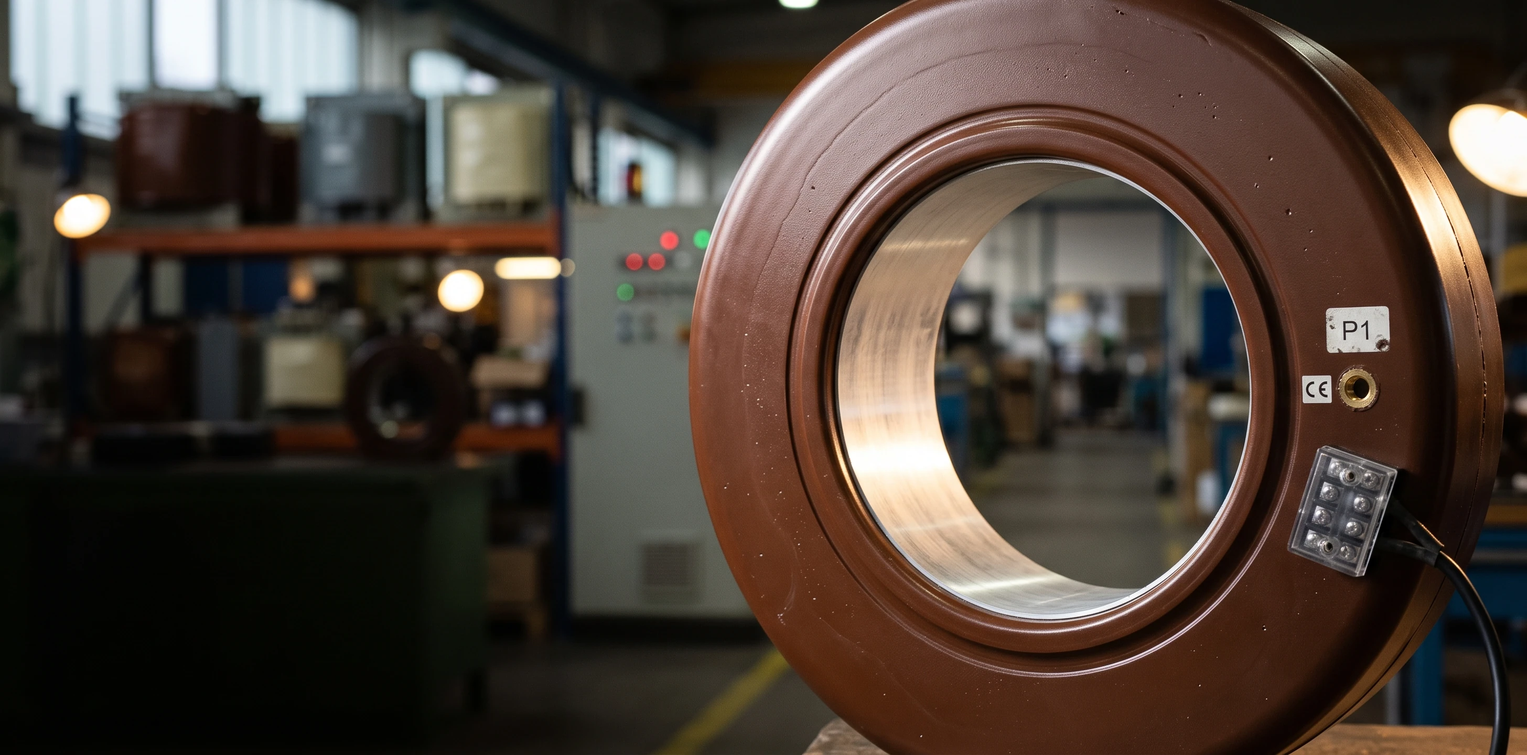
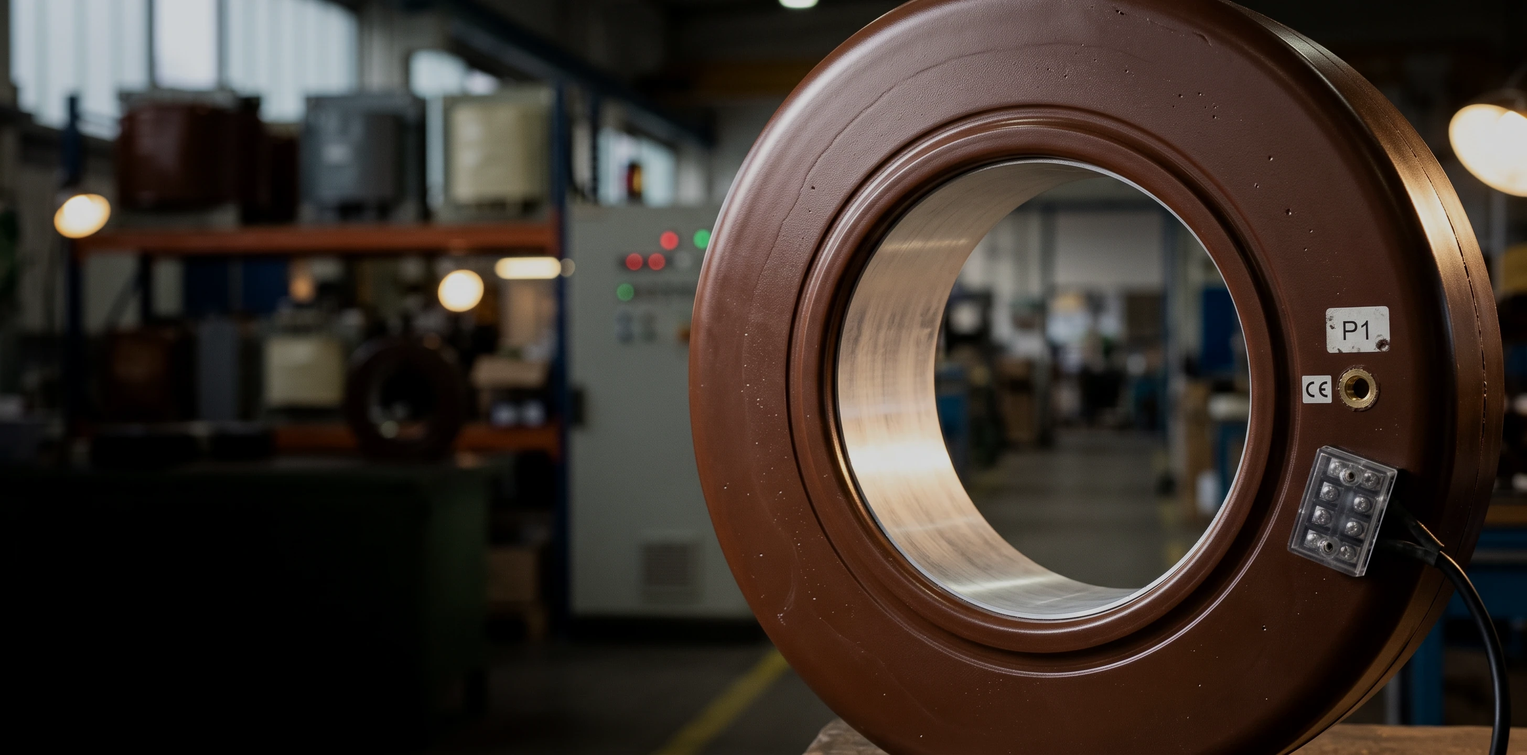
Startbühne: Animation im Compositor, Handy wieder mit Ring im Hintergrund
Messwerk in kleine Ebenen geteilt (Leuchten, Ring, Skala, drehende Bögen,
Führungslinien, Punkte), Messkurven und Röntgen-Freigabe nur noch über transform,
Wiederholungsscan auf eigener Ebene; Farbabstimmung ins Foto eingerechnet
(ungefiltert in raw/img/mimg/_quellen). Prüfskript tools/qa/perf-hero.mjs.

Claude-Session: https://claude.ai/code/session_011KqBX1eqUtzup1XKCHN7Kb

diff --git a/site/src/styles/home.css b/site/src/styles/home.css
@@ -105,10 +105,11 @@
 /* ---------- Bühne ---------- */
 .is-home .st { margin-top: calc(-1 * var(--header-h)); }
 .st { position: relative; isolation: isolate; display: grid; grid-template-rows: 1fr auto; min-height: clamp(560px, calc(90svh - var(--abar-h, 0px)), 880px); padding-top: var(--header-h); background: var(--night); color: var(--on-night); overflow: hidden; }
-.st__media { position: absolute; inset: 0; z-index: -2; overflow: hidden; }
+.st__media { position: absolute; inset: 0; z-index: -2; overflow: hidden; contain: layout paint; }
 /* Fläche im Seitenverhältnis des Fotos, wie ein Titelbild beschnitten; Fokus auf dem Ring */
 .st__frame { --fx: 50%; position: absolute; top: 50%; left: 50%; height: max(100%, calc(100vw * var(--st-h) / var(--st-w))); aspect-ratio: var(--st-ar); transform: translate(calc(-1 * var(--fx)), -50%); }
-.st__photo { position: absolute; inset: 0; width: 100%; height: 100%; object-fit: cover; filter: saturate(.92) contrast(1.05) brightness(.82); }
+/* Farbabstimmung (Sättigung .92, Kontrast 1.05, Helligkeit .82) ist ins Bild eingerechnet: kein Filter pro Bild */
+.st__photo { position: absolute; inset: 0; width: 100%; height: 100%; object-fit: cover; }
 .st::before { content: ""; position: absolute; inset: 0; z-index: -1; pointer-events: none;
   background:
     linear-gradient(90deg, rgb(18 12 11 / .94) 0%, rgb(18 12 11 / .82) 30%, rgb(18 12 11 / .34) 56%, rgb(18 12 11 / .12) 100%),
@@ -120,21 +121,26 @@
 .st__links { display: flex; flex-wrap: wrap; align-items: center; gap: 1rem 1.6rem; margin-top: .4rem; }
 .st :focus-visible { outline-color: #fff; }
 
-/* Messwerk über dem Foto */
-.hud { position: absolute; inset: 0; width: 100%; height: 100%; overflow: visible; fill: none; }
-.hud path, .hud circle { vector-effect: non-scaling-stroke; }
-.hud__glow { stroke: var(--hud-red); stroke-width: 10; opacity: .14; filter: blur(6px); }
+/* Messwerk über dem Foto: kleine Ebenen (Lage und Größe aus home.js), bewegt nur über transform und opacity */
+.hud { position: absolute; overflow: visible; fill: none; pointer-events: none; }
+.hud :is(path, circle) { vector-effect: non-scaling-stroke; }
+.hud__glow { stroke: var(--hud-red); stroke-width: 10; filter: blur(6px); }
+.hud--glow { opacity: .14; }
 .hud__ring { stroke: var(--hud); stroke-width: 1.3; opacity: .78; }
 .hud__ticks { stroke: var(--hud); stroke-width: 1; opacity: .3; }
 .hud__major { stroke: var(--hud); stroke-width: 1.4; opacity: .62; }
+.hud__cross { stroke: var(--hud); stroke-width: 1.2; opacity: .7; }
+.hud--lead path { stroke: var(--hud); stroke-width: 1.1; opacity: .85; }
+/* drehende Bögen: Hülle staucht auf die Stirnseite, die beiden SVG-Ebenen drehen sich darin um ihre Mitte */
+.hud-orbit { position: absolute; transform: scaleX(var(--e, 1)); pointer-events: none; }
+.hud-orbit > svg { position: absolute; inset: 0; width: 100%; height: 100%; overflow: visible; fill: none; }
+.hud-orbit path { vector-effect: non-scaling-stroke; }
 .hud__scan { stroke: var(--hud-red); stroke-width: 3; stroke-linecap: round; }
 .hud__scan--2 { opacity: .5; }
 .hud__flow { stroke: var(--hud-copper); stroke-width: 2; stroke-linecap: round; opacity: .8; }
-.hud__rot { transform-box: view-box; }
-.hud__cross { stroke: var(--hud); stroke-width: 1.2; opacity: .7; }
-.hud__lead { stroke: var(--hud); stroke-width: 1.1; opacity: .85; }
-.hud__dot { fill: var(--hud-red); stroke: none; }
-.hud__ping { fill: none; stroke: var(--hud-red); stroke-width: 1.5; opacity: 0; transform-box: fill-box; transform-origin: center; }
+.st__dot, .st__ping { position: absolute; border-radius: 50%; pointer-events: none; }
+.st__dot { width: 9px; height: 9px; margin: -4.5px 0 0 -4.5px; background: var(--hud-red); }
+.st__ping { width: 56px; height: 56px; margin: -28px 0 0 -28px; border: 1.5px solid var(--hud-red); opacity: 0; }
 /* Röntgenblick: zarte Zeichnung hinter dem Scanner, im Streifen scharf über dem abgedunkelten Foto */
 .xr { position: absolute; inset: 0; pointer-events: none; }
 .xr svg { position: absolute; inset: 0; width: 100%; height: 100%; overflow: visible; fill: none; }
@@ -144,6 +150,7 @@
 .xr__l { stroke: var(--hud); stroke-width: .8; opacity: .4; }
 .xr__w { stroke: var(--hud-copper); stroke-width: 1.2; }
 .xr__p { stroke: var(--hud); stroke-width: 1.2; stroke-dasharray: 5 5; }
+.xr__rev { position: absolute; inset: 0; overflow: hidden; }
 .xr__base { opacity: .4; }
 .xr__win { position: absolute; top: 0; bottom: 0; left: 0; width: var(--bw); overflow: hidden; opacity: 0; background: linear-gradient(90deg, transparent 25%, rgb(255 74 67 / .13) 50%, transparent 75%), rgb(18 12 11 / .6);
   -webkit-mask-image: linear-gradient(90deg, transparent, #000 35%, #000 65%, transparent), linear-gradient(transparent, #000 9%, #000 80%, transparent); -webkit-mask-composite: source-in;
@@ -151,13 +158,14 @@
 .xr__win .xr__art { inset: 0 auto 0 0; width: var(--aw); }
 .xr__line { position: absolute; top: 0; bottom: 0; left: 50%; width: 2px; margin-left: -1px; background: var(--hud-red); box-shadow: 0 0 18px 3px color-mix(in srgb, var(--hud-red) 55%, transparent); }
 .st__chip, .st__read { position: absolute; font-size: .8rem; line-height: 1.25; color: #fff; }
-.st__chip { transform: translate(-100%, -50%); max-width: 15em; padding: .28rem .55rem; text-wrap: balance; font-weight: 560; font-stretch: 92%; letter-spacing: .01em; background: rgb(18 12 11 / .62); -webkit-backdrop-filter: blur(6px); backdrop-filter: blur(6px); }
+.st__chip { transform: translate(-100%, -50%); max-width: 15em; padding: .28rem .55rem; text-wrap: balance; font-weight: 560; font-stretch: 92%; letter-spacing: .01em; background: rgb(18 12 11 / .74); }
 .st__chip--b { transform: translate(-100%, -50%); }
-.st__read { display: grid; gap: 6px; width: 15.5rem; padding: 12px 14px; background: rgb(18 12 11 / .55); border: 1px solid rgb(255 255 255 / .18); -webkit-backdrop-filter: blur(12px); backdrop-filter: blur(12px); transform: translate(0, -100%); }
+.st__read { display: grid; gap: 6px; width: 15.5rem; padding: 12px 14px; background: rgb(18 12 11 / .7); border: 1px solid rgb(255 255 255 / .18); transform: translate(0, -100%); }
 .st__trace { display: grid; grid-template-columns: auto 1fr; align-items: center; gap: 0 10px; font-variant-numeric: tabular-nums; }
 .st__trace b { font-weight: 560; font-size: .74rem; font-stretch: 90%; color: var(--on-night-2); }
 .st__trace i { font-style: normal; justify-self: end; font-weight: 680; font-stretch: 110%; }
-.st__trace svg { grid-column: 1 / -1; width: 100%; height: 28px; overflow: hidden; }
+.st__wave { grid-column: 1 / -1; height: 28px; overflow: hidden; }
+.st__wave svg { display: block; width: 200%; height: 100%; }
 .st__trace path { fill: none; stroke: var(--hud-red); stroke-width: 1.6; vector-effect: non-scaling-stroke; }
 .st__trace--s path { stroke: var(--hud-copper); }
 
@@ -172,30 +180,25 @@
 .st__fact strong small { font-size: .56em; font-weight: 620; margin-left: .14em; }
 .st__fact dt { font-size: .84rem; line-height: 1.35; color: var(--on-night-2); }
 @media (max-width: 1240px) {
-  .st__chip--a, .hud__lead--1 { display: none; }
+  .st__chip--a, .hud--lead1 { display: none; }
 }
 @media (max-width: 1100px) {
   .st__frame { --fx: 56%; }
-  .st__chip--b, .hud__lead--2, .hud__dot--2, .hud__ping--2 { display: none; }
+  .st__chip--b, .hud--lead2, .st__dot--2, .st__ping--2 { display: none; }
 }
 @media (max-width: 1000px) {
   .st__ruler { grid-template-columns: repeat(3, minmax(0, 1fr)); }
   .st__fact:nth-child(4) { padding-left: 0; }
   .st__fact:nth-child(n+4) { border-top: 1px solid var(--night-line); }
 }
-/* Handy: der Ring steht oben ganz im Bild (Messwerk und Röntgenblick bleiben lesbar), der Text darunter auf
-   ruhigem Grund. Maßstab --s (CSS-Pixel je Fotopixel): --st-mw Fotopixel füllen die Breite (Ring samt Aufklebern),
-   --st-mh die Höhe der Bildfläche (Werte aus STAGE in home.js). */
+/* Telefon: Foto mit Ring im Hintergrund hinter dem Text, nur das Messwerk (ohne Scanner, Schilder und Messwerte) */
 @media (max-width: 760px) {
-  .st { display: flex; flex-direction: column; min-height: 0; --s: max(calc(min(100vw, 560px) / var(--st-mw)), calc(100vw / var(--st-cov))); --mh: calc(var(--st-mh) * var(--s)); }
-  .st__media { position: relative; inset: auto; flex: none; height: var(--mh); }
-  .st__frame { top: calc(50% - var(--st-cy) * var(--s)); left: calc(50% - var(--st-cx) * var(--s)); width: calc(var(--st-w) * var(--s)); height: calc(var(--st-h) * var(--s)); aspect-ratio: auto; transform: none;
-    transform-origin: calc(var(--st-cx) / var(--st-w) * 100%) calc(var(--st-cy) / var(--st-h) * 100%); }
-  .st::before { inset: var(--header-h) 0 auto; height: var(--mh);
-    background: radial-gradient(closest-side, rgb(18 12 11 / 0) 72%, rgb(18 12 11 / .8) 100%), linear-gradient(0deg, var(--night) 0%, rgb(18 12 11 / 0) 26%), linear-gradient(180deg, rgb(18 12 11 / .55) 0%, rgb(18 12 11 / 0) 18%); }
-  .st__chip, .st__read, .hud__lead, .hud__dot, .hud__ping { display: none; }
+  .st { min-height: max(92svh, 600px); }
+  .st__frame { --fx: 62%; }
+  .st::before { background: linear-gradient(180deg, rgb(18 12 11 / .72) 0%, rgb(18 12 11 / .55) 40%, rgb(18 12 11 / .92) 82%, rgb(18 12 11 / .98) 100%); }
+  .st__chip, .st__read, .hud--lead, .st__dot, .st__ping, .xr { display: none; }
   .st__fact:nth-child(5) { display: none; }
-  .st__inner { align-self: stretch; padding-block: 14px 30px; }
+  .st__inner { align-self: end; }
   .st__ruler { grid-template-columns: repeat(2, minmax(0, 1fr)); }
   .st__fact { padding: 16px 12px 18px 0; }
   .st__fact:nth-child(n) { border-top: 1px solid var(--night-line); padding-left: 0; }
@@ -213,36 +216,40 @@
 .hdr.hdr--over:not(.is-open) .hdr__cta:hover { --bg: #fff; --fg: #1b1716; --bd: #fff; color: #1b1716; }
 .hdr.hdr--over:not(.is-open) :focus-visible { outline-color: #fff; }
 
-/* Bewegung der Bühne: ein Einstieg, danach ruhige Schleifen; bei reduzierter Bewegung steht alles */
+/* Bewegung der Bühne: ein Einstieg, danach ruhige Schleifen; bei reduzierter Bewegung steht alles.
+   Alle Schleifen sind transform oder opacity ganzer Ebenen (Compositor, kein Neuzeichnen). */
 @media (prefers-reduced-motion: no-preference) {
   .st__frame { animation: stZoom 18s var(--ease-out) both; }
   .hud__ring { stroke-dasharray: 1; animation: stDraw 1.6s var(--ease-out) .25s both; }
-  .hud__ticks, .hud__major, .hud__cross { animation: stFade 1.2s var(--ease-out) .7s both; }
+  .hud--scale { animation: stFade 1.2s var(--ease-out) .7s both; }
   .hud__rot { animation: stSpin 16s linear infinite; }
   .hud__rot--rev { animation-duration: 26s; animation-direction: reverse; }
+  .hud--glow { animation: stPulse 4s var(--ease-in-out) infinite; }
   /* Hinweise im Takt des Scanners (Zeitpunkte aus home.js) */
-  .hud__lead { stroke-dasharray: 1; animation: stDraw .9s var(--ease-out) var(--d, 1.3s) both; }
-  .hud__dot { animation: stFade .4s var(--ease-out) var(--d, 1.2s) both; }
-  .hud__ping { animation: stPing 1s var(--ease-out) var(--d, 1.2s) forwards; }
+  .hud--lead path { stroke-dasharray: 1; animation: stDraw .9s var(--ease-out) var(--d, 1.3s) both; }
+  .st__dot { animation: stFade .4s var(--ease-out) var(--d, 1.2s) both; }
+  .st__ping { animation: stPing 1s var(--ease-out) var(--d, 1.2s) forwards; }
   .st__chip { animation: stFade .6s var(--ease-out) var(--d, 1.9s) both; }
   .st__read { animation: stUp .8s var(--ease-out) var(--d, 1.5s) both; }
-  /* Scanner: Streifen und Zeichnung laufen exakt gegenläufig (gleiche Dauer, gleicher Start, linear) */
-  .xr__base { animation: xrBase var(--xd) linear var(--xt) both; }
-  .xr__win { animation: xrWin var(--xd) linear var(--xt) both, xrWinLoop var(--xl) linear var(--xl0) infinite; }
-  .xr__win .xr__art { animation: xrArt var(--xd) linear var(--xt) both, xrArtLoop var(--xl) linear var(--xl0) infinite; }
-  .st__trace svg path { animation: stTrace 2.4s linear infinite; }
-  .st__trace--s svg path { animation-duration: 2.4s; }
-  .hud__glow { animation: stPulse 4s var(--ease-in-out) infinite; }
+  .st__wave svg { animation: stTrace 2.4s linear infinite; }
+  /* Scanner: Streifen, Zeichnung und Freigabe laufen exakt gegenläufig (gleiche Dauer, gleicher Start, linear) */
+  .xr__rev { animation: xrRev var(--xd) linear var(--xt) both; }
+  .xr__rev > svg { animation: xrRevIn var(--xd) linear var(--xt) both; }
+  .xr__win { animation: xrWin var(--xd) linear var(--xt) both; }
+  .xr__win .xr__art { animation: xrArt var(--xd) linear var(--xt) both; }
+  .xr__win--loop { animation: xrWinLoop var(--xl) linear var(--xl0) infinite backwards; }
+  .xr__win--loop .xr__art { animation: xrArtLoop var(--xl) linear var(--xl0) infinite backwards; }
   .hero--anim .st__lead { animation: riseIn .7s var(--ease-out) .26s backwards; }
   .hero--anim .st__links { animation: riseIn .7s var(--ease-out) .36s backwards; }
   .hero--anim .st__foot { animation: fadeIn .8s var(--ease-out) .5s backwards; }
   :root[data-intro="play"] :is(.hero--anim .st__lead, .hero--anim .st__links, .hero--anim .st__foot) { animation-play-state: paused; }
   :root.rv .sp__chart:not(.is-in) .sp__bar { transform: scaleX(0); }
-  .st.is-idle :is(.st__frame, .hud__rot, .st__trace path, .hud__glow, .xr__base, .xr__win, .xr__art) { animation-play-state: paused; }
-  :root[data-intro="play"] .st :is(.st__frame, .hud__ring, .hud__ticks, .hud__major, .hud__cross, .hud__lead, .hud__dot, .hud__ping, .st__chip, .st__read, .xr__base, .xr__win, .xr__art) { animation-play-state: paused; }
+  .st.is-idle :is(.st__frame, .hud__rot, .hud--glow, .st__wave svg, .xr__rev, .xr__rev > svg, .xr__win, .xr__art) { animation-play-state: paused; }
+  :root[data-intro="play"] .st :is(.st__frame, .hud__ring, .hud--scale, .hud--lead path, .st__dot, .st__ping, .st__chip, .st__read, .xr__rev, .xr__rev > svg, .xr__win, .xr__art) { animation-play-state: paused; }
 }
-@keyframes stPing { 0% { opacity: .9; transform: scale(1); } 100% { opacity: 0; transform: scale(5.5); } }
-@keyframes xrBase { from { clip-path: inset(0 var(--ca) 0 0); } to { clip-path: inset(0 0 0 0); } }
+@keyframes stPing { 0% { opacity: .9; transform: scale(.18); } 100% { opacity: 0; transform: scale(1); } }
+@keyframes xrRev { from { transform: translateX(var(--ra)); } to { transform: none; } }
+@keyframes xrRevIn { from { transform: translateX(var(--rb)); } to { transform: none; } }
 @keyframes xrWin { 0% { transform: translateX(var(--wa)); opacity: 0; } 8% { opacity: 1; } 90% { opacity: 1; } 100% { transform: translateX(var(--wb)); opacity: 0; } }
 @keyframes xrArt { from { transform: translateX(var(--aa)); } to { transform: translateX(var(--ab)); } }
 /* leiser zweiter Scan: 19 % von 14 s entsprechen der Dauer des ersten */

diff --git a/site/src/views/home.js b/site/src/views/home.js
@@ -121,13 +121,17 @@ export function groupStats(ctx) {
 // Im Streifen wird das Foto abgedunkelt und das Innere scharf sichtbar (Ringkern mit Bandlagen, Sekundärwicklung,
 // Außenkante des Gießharzkörpers, Lage des Primärleiters); hinter dem Scanner bleibt die Zeichnung zart stehen.
 // Die Hinweise erscheinen in dem Moment, in dem der Scanner ihren Punkt erreicht. Danach läuft alle 14 s ein
-// leiser zweiter Scan. Bei einem neuen Foto genügt es, STAGE neu einzumessen.
+// leiser zweiter Scan. Auf dem Telefon liegt nur das Messwerk im Hintergrund hinter dem Text (ohne Scanner).
+// Rechenlast: Jede Bewegung ist transform oder opacity auf einer eigenen, kleinen Ebene und läuft im Compositor
+// ohne Hauptthread – die Bögen drehen sich als eigene SVG-Ebenen, das Leuchten pulsiert über die Deckkraft seiner
+// Ebene, die Messkurven gleiten als Ganzes, Scanner und Röntgenbild verschieben nur Ebenen. Neu gezeichnet werden
+// allein Ring und Führungslinien, während sie sich beim Einstieg aufziehen (je eine kleine Ebene).
+// Bei einem neuen Foto genügt es, STAGE neu einzumessen.
 const STAGE_IMG = 'mimg/buehne-ringkernwandler.webp';
 const STAGE = {
   w: 2912, h: 1440,
   cx: 1992, cy: 745, rx: 395, ry: 438, // Öffnung: Mitte und Halbachsen an der Kante der Aluminiumhülse
   outer: [2010, 745, 692, 752], // Außenkante der Stirnseite (Mitte, Halbachsen; rechts durch die Perspektive größer)
-  mw: 1400, mh: 1051, // Handy: so viele Fotopixel füllen Breite und Höhe der Bildfläche (Ring samt Aufklebern)
   // Bauteile auf der Stirnseite (x, y, Breite, Höhe): Aufkleber P1, CE mit Gewindeeinsatz, Klemmenkasten.
   // Das Röntgenbild spart sie aus, damit sie sauber über der Zeichnung liegen.
   parts: [[2511, 567, 157, 125], [2465, 690, 180, 112], [2438, 834, 245, 285]],
@@ -139,8 +143,14 @@ const XR = { core: [1.27, 1.45], wind: [1.25, 1.47], lam: 13, cond: 60, dot: [1.
 // Scanner: Mitte des Streifens fährt gleichmäßig von x0 nach x1 (Fotopixel, Breite bw), Start t0, Dauer dur, Wiederholung loop (s)
 const SCAN = { x0: 1180, x1: 2912, bw: 510, t0: 0.9, dur: 2.4, loop: 14 };
 const scanAt = (x) => +(SCAN.t0 + ((x - SCAN.x0) / (SCAN.x1 - SCAN.x0)) * SCAN.dur).toFixed(2);
-const P = (x, y) => `left:${((x / STAGE.w) * 100).toFixed(2)}%;top:${((y / STAGE.h) * 100).toFixed(2)}%`;
 const f1 = (v) => v.toFixed(1);
+const pcOf = (v, of) => `${((v / of) * 100).toFixed(3)}%`;
+const P = (x, y) => `left:${pcOf(x, STAGE.w)};top:${pcOf(y, STAGE.h)}`;
+const BOX = ([x0, y0, x1, y1]) => `left:${pcOf(x0, STAGE.w)};top:${pcOf(y0, STAGE.h)};width:${pcOf(x1 - x0, STAGE.w)};height:${pcOf(y1 - y0, STAGE.h)}`;
+// SVG-Ebene über einem Ausschnitt des Fotos (x0, y0, x1, y1); gezeichnet wird weiter in Fotopixeln
+const layer = (cls, box, inner, style = '') => `<svg class="${cls}" style="${BOX(box)}${style}" viewBox="${f1(box[0])} ${f1(box[1])} ${f1(box[2] - box[0])} ${f1(box[3] - box[1])}" preserveAspectRatio="none" focusable="false">${inner}</svg>`;
+// Ausschnitt um die Mitte des Rings mit halber Breite a und halber Höhe b
+const around = (a, b) => [STAGE.cx - a, STAGE.cy - b, STAGE.cx + a, STAGE.cy + b];
 const rad = (a) => (a * Math.PI) / 180;
 // Kreis um die Mitte (ungestaucht, für die Gruppe ON_FACE) und Punkt auf der Stirnseite (k-facher Öffnungsradius)
 const lp = (r, a) => [STAGE.cx + r * Math.cos(rad(a)), STAGE.cy + r * Math.sin(rad(a))];
@@ -152,6 +162,7 @@ function arcPath(cx, cy, r, a0, a1) {
   return `M${x0.toFixed(1)} ${y0.toFixed(1)}A${r.toFixed(1)} ${r.toFixed(1)} 0 ${a1 - a0 > 180 ? 1 : 0} 1 ${x1.toFixed(1)} ${y1.toFixed(1)}`;
 }
 const circ = (r) => `M${f1(STAGE.cx + r)} ${STAGE.cy}A${f1(r)} ${f1(r)} 0 1 1 ${f1(STAGE.cx - r)} ${STAGE.cy}A${f1(r)} ${f1(r)} 0 1 1 ${f1(STAGE.cx + r)} ${STAGE.cy}`;
+const polyline = (pts) => pts.map(([x, y], i) => `${i ? 'L' : 'M'}${f1(x)} ${f1(y)}`).join('');
 // Hinweise: Ankerpunkte in Fotopixeln (Schilder rechtsbündig an der Linie, Messwerte mit der linken unteren Ecke)
 function stageMarks() {
   const { cx, cy, rx, ry } = STAGE, u = U;
@@ -166,6 +177,8 @@ function stageMarks() {
     dot2: [kx, ky],
   };
 }
+// Messwerk aus kleinen Ebenen: Leuchten, Ring, Skala (mit Fadenkreuz), zwei drehende Bögen, zwei Führungslinien,
+// Punkte und Pulse als HTML-Elemente
 function stageHud() {
   const { cx, cy, ry: r } = STAGE, u = U;
   let ticks = '', major = '';
@@ -177,26 +190,29 @@ function stageHud() {
     if (long) major += seg; else ticks += seg;
   }
   const cross = [[1, 0], [-1, 0], [0, 1], [0, -1]].map(([dx, dy]) => `M${f1(cx + dx * 18 * u)} ${f1(cy + dy * 18 * u)}L${f1(cx + dx * 46 * u)} ${f1(cy + dy * 46 * u)}`).join('');
+  const rRing = r + 8 * u, rScale = r + 40 * u, rOrbit = r + 64 * u + 8;
+  const onFace = (inner) => `<g transform="${ON_FACE}">${inner}</g>`;
+  // drehende Bögen: quadratischer Ausschnitt in Kreiskoordinaten, die Stauchung auf die Stirnseite übernimmt die Hülle
+  const orbit = (cls, arcs) => `<svg class="hud__rot${cls}" viewBox="${f1(cx - rOrbit)} ${f1(cy - rOrbit)} ${f1(2 * rOrbit)} ${f1(2 * rOrbit)}" focusable="false">${arcs}</svg>`;
   const M = stageMarks();
-  const [kx, ky] = M.dot2;
-  const t1 = scanAt(cx), t2 = scanAt(kx);
-  const line = (pts) => pts.map(([x, y], i) => `${i ? 'L' : 'M'}${f1(x)} ${f1(y)}`).join('');
-  const rot = `style="transform-origin:${cx}px ${cy}px"`;
-  return `<svg class="hud" viewBox="0 0 ${STAGE.w} ${STAGE.h}" preserveAspectRatio="none" focusable="false">
-    <g transform="${ON_FACE}">
-      <circle class="hud__glow" cx="${cx}" cy="${cy}" r="${f1(r + 8 * u)}"/>
-      <circle class="hud__ring" cx="${cx}" cy="${cy}" r="${f1(r + 8 * u)}" pathLength="1"/>
-      <path class="hud__ticks" d="${ticks}"/><path class="hud__major" d="${major}"/>
-      <g class="hud__rot" ${rot}><path class="hud__scan" d="${arcPath(cx, cy, r + 50 * u, -70, -18)}"/><path class="hud__scan hud__scan--2" d="${arcPath(cx, cy, r + 50 * u, 110, 162)}"/></g>
-      <g class="hud__rot hud__rot--rev" ${rot}><path class="hud__flow" d="${arcPath(cx, cy, r + 64 * u, 200, 232)}"/><path class="hud__flow" d="${arcPath(cx, cy, r + 64 * u, 20, 52)}"/></g>
-      <path class="hud__cross" d="${cross}"/>
-      <circle class="hud__ping" style="--d:${t1}s" cx="${cx}" cy="${cy}" r="${f1(6 * u)}"/>
-    </g>
-    <path class="hud__lead hud__lead--1" style="--d:${t1}s" d="${line(M.lead1)}" pathLength="1"/>
-    <path class="hud__lead hud__lead--2" style="--d:${t2}s" d="${line(M.lead2)}" pathLength="1"/>
-    <circle class="hud__ping hud__ping--2" style="--d:${t2}s" cx="${f1(kx)}" cy="${f1(ky)}" r="${f1(6 * u)}"/>
-    <circle class="hud__dot" style="--d:${t1}s" cx="${cx}" cy="${cy}" r="${f1(5 * u)}"/><circle class="hud__dot hud__dot--2" style="--d:${t2}s" cx="${f1(kx)}" cy="${f1(ky)}" r="${f1(5 * u)}"/>
-  </svg>`;
+  const t1 = scanAt(cx), t2 = scanAt(M.dot2[0]);
+  const lead = (pts, n, t) => {
+    const xs = pts.map((p) => p[0]), ys = pts.map((p) => p[1]);
+    return layer(`hud hud--lead hud--lead${n}`, [Math.min(...xs) - 6, Math.min(...ys) - 6, Math.max(...xs) + 6, Math.max(...ys) + 6], `<path d="${polyline(pts)}" pathLength="1"/>`, `;--d:${t}s`);
+  };
+  return [
+    layer('hud hud--glow', around(E * rRing + 60, rRing + 60), onFace(`<circle class="hud__glow" cx="${cx}" cy="${cy}" r="${f1(rRing)}"/>`)),
+    layer('hud hud--ring', around(E * rRing + 8, rRing + 8), onFace(`<circle class="hud__ring" cx="${cx}" cy="${cy}" r="${f1(rRing)}" pathLength="1"/>`)),
+    layer('hud hud--scale', around(E * rScale + 8, rScale + 8), onFace(`<path class="hud__ticks" d="${ticks}"/><path class="hud__major" d="${major}"/><path class="hud__cross" d="${cross}"/>`)),
+    `<div class="hud-orbit" style="${BOX([cx - rOrbit, cy - rOrbit, cx + rOrbit, cy + rOrbit])};--e:${E.toFixed(4)}">`
+      + orbit('', `<path class="hud__scan" d="${arcPath(cx, cy, r + 50 * u, -70, -18)}"/><path class="hud__scan hud__scan--2" d="${arcPath(cx, cy, r + 50 * u, 110, 162)}"/>`)
+      + orbit(' hud__rot--rev', `<path class="hud__flow" d="${arcPath(cx, cy, r + 64 * u, 200, 232)}"/><path class="hud__flow" d="${arcPath(cx, cy, r + 64 * u, 20, 52)}"/>`)
+      + '</div>',
+    lead(M.lead1, 1, t1),
+    lead(M.lead2, 2, t2),
+    `<i class="st__ping" style="${P(cx, cy)};--d:${t1}s"></i><i class="st__ping st__ping--2" style="${P(...M.dot2)};--d:${t2}s"></i>`,
+    `<i class="st__dot" style="${P(cx, cy)};--d:${t1}s"></i><i class="st__dot st__dot--2" style="${P(...M.dot2)};--d:${t2}s"></i>`,
+  ].join('');
 }
 // Röntgenbild: Außenkante des Gießharzkörpers, Ringkern mit Bandlagen, Sekundärwicklung (radiale Windungen,
 // zwischen den Skalenstrichen versetzt) und die Lage des Primärleiters im Fenster
@@ -217,34 +233,38 @@ function xrMask(id) {
   const { w, h, parts } = STAGE;
   return `<defs><filter id="${id}f" x="-20%" y="-20%" width="140%" height="140%"><feGaussianBlur stdDeviation="9"/></filter><mask id="${id}" maskUnits="userSpaceOnUse" x="0" y="0" width="${w}" height="${h}"><rect width="${w}" height="${h}" fill="#fff"/><g filter="url(#${id}f)">${parts.map(([x, y, pw, ph]) => `<rect x="${x}" y="${y}" width="${pw}" height="${ph}" rx="18" fill="#000"/>`).join('')}</g></mask></defs>`;
 }
-// Scanner als zwei Ebenen: ein schmaler Streifen (weiche Kanten, dunkelt das Foto ab, trägt die Scanlinie) wandert
-// über die Fläche, die scharfe Zeichnung darin läuft genau gegenläufig und bleibt so auf dem Ring stehen; beides
-// nur mit transform, damit die Bewegung im Compositor läuft. Die zarte Zeichnung wird dahinter per clip-path frei.
+// Scanner als Ebenen, die sich nur verschieben: ein schmaler Streifen (weiche Kanten, dunkelt das Foto ab, trägt die
+// Scanlinie) wandert über die Fläche, die scharfe Zeichnung darin läuft genau gegenläufig und bleibt so auf dem Ring
+// stehen. Ebenso gibt eine mitlaufende Hülle die zarte Zeichnung hinter dem Scanner frei (rechte Kante = Scanlinie).
 function stageXray() {
   const { w, h } = STAGE;
-  const pc = (v) => `${(v * 100).toFixed(4)}%`;
-  const bw = SCAN.bw / w, l0 = (SCAN.x0 - SCAN.bw / 2) / w, l1 = (SCAN.x1 - SCAN.bw / 2) / w;
+  const p4 = (v) => `${(v * 100).toFixed(4)}%`;
+  const bw = SCAN.bw / w, l0 = (SCAN.x0 - SCAN.bw / 2) / w, l1 = (SCAN.x1 - SCAN.bw / 2) / w, c0 = SCAN.x0 / w;
   const vars = [
-    `--bw:${pc(bw)}`, `--aw:${pc(1 / bw)}`,
-    `--wa:${pc(l0 / bw)}`, `--wb:${pc(l1 / bw)}`,
-    `--aa:${pc(-l0)}`, `--ab:${pc(-l1)}`,
-    `--ca:${pc(1 - SCAN.x0 / w)}`,
+    `--bw:${p4(bw)}`, `--aw:${p4(1 / bw)}`,
+    `--wa:${p4(l0 / bw)}`, `--wb:${p4(l1 / bw)}`,
+    `--aa:${p4(-l0)}`, `--ab:${p4(-l1)}`,
+    `--ra:${p4(c0 - 1)}`, `--rb:${p4(1 - c0)}`,
     `--xt:${SCAN.t0}s`, `--xd:${SCAN.dur}s`, `--xl:${SCAN.loop}s`, `--xl0:${+(SCAN.t0 + SCAN.loop).toFixed(2)}s`,
   ].join(';');
   const art = xrArt();
   const svg = (cls, id) => `<svg class="${cls}" viewBox="0 0 ${w} ${h}" preserveAspectRatio="none" focusable="false">${xrMask(id)}<g mask="url(#${id})">${art}</g></svg>`;
-  return `<div class="xr" style="${vars}">${svg('xr__base', 'xrm-b')}<div class="xr__win">${svg('xr__art', 'xrm-a')}<i class="xr__line"></i></div></div>`;
+  // erster Scan und Wiederholung auf getrennten Ebenen: je Element nur eine Animation, sonst kann der Browser sie
+  // nicht im Compositor abspielen
+  return `<div class="xr" style="${vars}"><div class="xr__rev">${svg('xr__base', 'xrm-b')}</div>`
+    + `<div class="xr__win">${svg('xr__art', 'xrm-a')}<i class="xr__line"></i></div>`
+    + `<div class="xr__win xr__win--loop">${svg('xr__art', 'xrm-l')}<i class="xr__line"></i></div></div>`;
 }
-// Größen des Fotos für srcset: Handy (Breite füllt mw Fotopixel), Desktop (Höhe der Bühne bis 90 % des Fensters)
+// Größen des Fotos für srcset: Telefon (Bühne mindestens 92 % der Fensterhöhe), sonst Höhe der Bühne bis 90 %
 function stageSizes() {
-  const k = STAGE.w / STAGE.mw, ar = STAGE.w / STAGE.h;
-  return `(max-width: 560px) ${Math.ceil(k * 100)}vw, (max-width: 760px) ${Math.ceil(k * 560)}px, (max-aspect-ratio: ${Math.round(ar * 90)}/100) ${Math.ceil(ar * 90)}vh, 100vw`;
+  const ar = STAGE.w / STAGE.h;
+  return `(max-width: 760px) ${Math.ceil(ar * 92)}vh, (max-aspect-ratio: ${Math.round(ar * 90)}/100) ${Math.ceil(ar * 90)}vh, 100vw`;
 }
 // kleine Messkurve (zwei Perioden, doppelt lang zum Durchlaufen)
 function trace(amp) {
   let d = '';
   for (let x = 0; x <= 240; x += 4) d += `${x ? 'L' : 'M'}${x} ${(20 - amp * Math.sin((2 * Math.PI * x) / 60)).toFixed(1)}`;
-  return `<svg viewBox="0 0 120 40" preserveAspectRatio="none" focusable="false"><path d="${d}"/></svg>`;
+  return `<span class="st__wave"><svg viewBox="0 0 240 40" preserveAspectRatio="none" focusable="false"><path d="${d}"/></svg></span>`;
 }
 function stage(ctx) {
   const { t, href, lang } = ctx;
@@ -257,11 +277,11 @@ function stage(ctx) {
     [`${fmtNum(0.72, lang)}–550`, H.stats.range, 'kV'],
     ...(g.repCountries ? [[String(g.repCountries), H.stats.reps]] : []),
   ];
-  const { w, h, cx, cy, mw, mh } = STAGE;
+  const { w, h, cx } = STAGE;
   const photo = ctx.img[STAGE_IMG] ? imgTag(ctx, STAGE_IMG, { alt: '', sizes: stageSizes(), eager: true, cls: 'st__photo' }) : '';
   const M = stageMarks();
   const tA = scanAt(cx) + 0.2, tB = scanAt(M.dot2[0]) + 0.2, tR = scanAt(SCAN.x1) - 0.15;
-  return `<section class="st hero--anim" data-stage aria-labelledby="st-title" style="--st-w:${w};--st-h:${h};--st-ar:${w} / ${h};--st-cx:${cx};--st-cy:${cy};--st-mw:${mw};--st-mh:${mh};--st-cov:${2 * Math.min(cx, w - cx)}">
+  return `<section class="st hero--anim" data-stage aria-labelledby="st-title" style="--st-w:${w};--st-h:${h};--st-ar:${w} / ${h}">
   <div class="st__media" aria-hidden="true">
     <div class="st__frame">
       ${photo}

diff --git a/site/docs/LIESMICH.md b/site/docs/LIESMICH.md
@@ -47,7 +47,7 @@ Die bisherigen Auftritte `ritz-international.com` (WordPress) und `produkte.ritz
 
 **Suche.** Gesamtsuche über Produkte, Seiten und Dokumente (Strg/Cmd + K oder „/“), Typcodes werden direkt erkannt.
 
-**Startseite.** Erst Präsentation, dann Verkauf. Die Bühne zeigt einen Gießharz-Ringkernwandler in der Fertigungshalle (Bühnenfoto `raw/img/mimg/buehne-ringkernwandler.webp`, 2912 × 1440 px, mit einer Bild-KI erzeugt), darüber liegt eine Mess-Optik als Vektorgrafik: Skala, Fadenkreuz, umlaufende Abtastbögen, zwei Beschriftungen mit Führungslinien und eine Anzeige „Primärstrom 2000 A → Sekundärstrom 5 A“. Dazu kommt ein Röntgenblick: Ein roter Scanner fährt über den Ring, im Streifen wird das Foto abgedunkelt und das Innere sichtbar (Ringkern mit Bandlagen, Sekundärwicklung, Außenkante des Gießharzkörpers, Lage des Primärleiters). Hinter dem Scanner bleibt die Zeichnung zart stehen, die Beschriftungen erscheinen, sobald der Scanner ihren Punkt erreicht, und alle 14 Sekunden läuft ein leiser zweiter Scan. Aufkleber und Klemmenkasten auf der Stirnseite spart die Zeichnung aus. Foto und Grafik teilen sich ein Koordinatensystem in Fotopixeln (`STAGE` in `src/views/home.js`: Mitte und Halbachsen der Öffnung, Außenkante, Lage der Bauteile; die Kamera steht leicht seitlich, deshalb liegen Skala und Röntgenbild als Ellipsen auf der Stirnseite). Für ein neues Bühnenfoto genügt es, diese Werte neu einzumessen; alle Maße der Grafik und die CSS-Variablen der Bühne leiten sich daraus ab. Auf dem Telefon steht der Ring oben ganz im Bild (samt Aufklebern und Klemmenkasten), der Text folgt darunter; Beschriftungen und Anzeige entfallen dort. Der Seitenkopf liegt transparent über der Bühne und wird beim Scrollen wieder weiß. Direkt unter der Bühne folgt die Weltkarte „Weltweit vernetzt“ (siehe unten). Darunter erzählt die Seite in Kapiteln: das Prinzip des Messwandlers mit drei Kennzahlen, das Spektrum von 0,72 bis 550 kV (sechs Produktbereiche als Balken auf logarithmischer Achse; Zeiger oder Fokus wechselt das Bild daneben), die Produktsuche „Den passenden Wandler finden“ über einem langsam wechselnden Bildband aus der Fertigung (Suchfeld mit Beispielen, die Spannungsachse auf Glas, die beim Erscheinen auf 24 kV fährt, Wege zu den Produkten und zur Anfrage), die Geschichte in sechs Etappen, die Fertigung als Bildband, Prüfung und Zertifikate, die vier jüngsten News als ruhige Liste und Karriere. Die Kennzahlen der Gruppe (gegründet 1945, Mitarbeitende, Werke und Länder, Spannungsbereich, Länder mit Vertretung) werden aus den Standort- und Vertretungsdaten berechnet.
+**Startseite.** Erst Präsentation, dann Verkauf. Die Bühne zeigt einen Gießharz-Ringkernwandler in der Fertigungshalle (Bühnenfoto `raw/img/mimg/buehne-ringkernwandler.webp`, 2912 × 1440 px, mit einer Bild-KI erzeugt), darüber liegt eine Mess-Optik als Vektorgrafik: Skala, Fadenkreuz, umlaufende Abtastbögen, zwei Beschriftungen mit Führungslinien und eine Anzeige „Primärstrom 2000 A → Sekundärstrom 5 A“. Dazu kommt ein Röntgenblick: Ein roter Scanner fährt über den Ring, im Streifen wird das Foto abgedunkelt und das Innere sichtbar (Ringkern mit Bandlagen, Sekundärwicklung, Außenkante des Gießharzkörpers, Lage des Primärleiters). Hinter dem Scanner bleibt die Zeichnung zart stehen, die Beschriftungen erscheinen, sobald der Scanner ihren Punkt erreicht, und alle 14 Sekunden läuft ein leiser zweiter Scan. Aufkleber und Klemmenkasten auf der Stirnseite spart die Zeichnung aus. Foto und Grafik teilen sich ein Koordinatensystem in Fotopixeln (`STAGE` in `src/views/home.js`: Mitte und Halbachsen der Öffnung, Außenkante, Lage der Bauteile; die Kamera steht leicht seitlich, deshalb liegen Skala und Röntgenbild als Ellipsen auf der Stirnseite). Für ein neues Bühnenfoto genügt es, diese Werte neu einzumessen; alle Maße der Grafik und die CSS-Variablen der Bühne leiten sich daraus ab. Auf dem Telefon liegt das Foto mit dem Ring im Hintergrund hinter dem Text, dort läuft nur das Messwerk (Ring, Skala, umlaufende Bögen, Leuchten), ohne Scanner, Beschriftungen und Anzeige. Rechenlast: Jede Dauerbewegung ist `transform` oder `opacity` einer eigenen kleinen Ebene und läuft im Compositor, der Hauptthread bleibt nach dem Einstieg frei (die Bögen drehen sich als eigene SVG-Ebenen, das Leuchten pulsiert über die Deckkraft seiner Ebene, die Messkurven gleiten als Ganzes, Scanner und Röntgenbild verschieben nur Ebenen; erster Scan und Wiederholung liegen auf getrennten Ebenen, weil der Browser zwei Animationen auf einem Element nicht auslagert). Neu gezeichnet werden nur Ring und Führungslinien, während sie sich aufziehen. Die Farbabstimmung des Fotos ist ins Bild eingerechnet (kein CSS-Filter), Schilder und Messwerte haben keine Hintergrund-Unschärfe. Messung: `node tools/qa/perf-hero.mjs` (gedrosselte CPU, Einstieg und Dauerbetrieb). Der Seitenkopf liegt transparent über der Bühne und wird beim Scrollen wieder weiß. Direkt unter der Bühne folgt die Weltkarte „Weltweit vernetzt“ (siehe unten). Darunter erzählt die Seite in Kapiteln: das Prinzip des Messwandlers mit drei Kennzahlen, das Spektrum von 0,72 bis 550 kV (sechs Produktbereiche als Balken auf logarithmischer Achse; Zeiger oder Fokus wechselt das Bild daneben), die Produktsuche „Den passenden Wandler finden“ über einem langsam wechselnden Bildband aus der Fertigung (Suchfeld mit Beispielen, die Spannungsachse auf Glas, die beim Erscheinen auf 24 kV fährt, Wege zu den Produkten und zur Anfrage), die Geschichte in sechs Etappen, die Fertigung als Bildband, Prüfung und Zertifikate, die vier jüngsten News als ruhige Liste und Karriere. Die Kennzahlen der Gruppe (gegründet 1945, Mitarbeitende, Werke und Länder, Spannungsbereich, Länder mit Vertretung) werden aus den Standort- und Vertretungsdaten berechnet.
 
 **Prüffeld (Startseite, „Jedes Gerät geprüft.“).** Unter der Überschrift ein dunkles Messgerät, das die beiden Kennzahlen als Prüfung abspielt: Wechselspannung (Sinus, der bis 400 kV anwächst, rote Spur), Hochstrom (Kurzschlussstrom mit abklingendem Gleichanteil – der erste Scheitel ist der höchste –, kupferne Spur, bis 50 kA), dann das Prüfprotokoll mit Haken. Drei Schritte darunter zeigen den Fortschritt; rechts leuchtet die Kennzahl, die gerade läuft, rot auf, die Zahlen zählen beim Erscheinen hoch. Läuft nur, solange es zu sehen ist; ohne JavaScript und bei „Bewegung reduzieren“ steht das Endbild. Werte und Einheiten kommen aus den Kennzahlen der Sprachdatei (`proofFacts`), Beschriftungen aus `pages.home.rig`. Dateien: `rigHTML()` in `src/views/home.js`, `src/client/rig.js`, Stile `.rig…` in `src/styles/home.css`.
 
@@ -155,7 +155,7 @@ Erfasst wurden alle öffentlich erreichbaren Seiten, Beiträge, Produkte, Dokume
 
 Nach jeder Änderung: `cd site && npm install` (einmalig), dann `node build.mjs`. Der Build dauert rund 10 Sekunden und schreibt die komplette Seite nach `site/dist/`. Mit `npm run check:i18n` prüft man, ob alle Sprachdateien vollständig zur englischen passen.
 
-**Qualitätssicherung.** In `site/tools/qa/` liegen automatische Prüfungen mit Playwright: `crawl.mjs` (alle Seiten: Konsolenfehler, fehlende Ressourcen, Überläufe, interne Links), `shot.mjs` (Bildschirmfotos), `map.mjs` (Karten), `configurator.mjs` (Konfigurator), `flow.mjs` (Finder, Vergleich, Anfrage, Suche, Sprachwechsel), `spa.mjs` (Vorschau), `a11y.mjs` (WCAG 2.1 AA mit axe-core), `perf.mjs` (Ladezeit und Layoutstabilität bei gedrosseltem Mobilfunk), `img-audit.mjs` (Bildschärfe: benötigte gegen vorhandene Pixel je Bild, Seiten ohne Bild), `oldlinks.mjs` (keine Links auf die Altseiten), `pv-preview.mjs` (alle Schemazeichnungen), `tools-probe.mjs` (Werkzeuge in jeder Sprache: `node tools/qa/tools-probe.mjs /tmp/w 390 hu`), `files-probe.mjs`, `mappe-probe.mjs`, `smart-probe.mjs` (Werkzeuge), `wide.mjs` und `minwidth.mjs` (Seitenbreite auf dem Telefon: was verbreitert die Seite, welche Wörter erzwingen die Mindestbreite) und `i18n-check.mjs` (Übersetzungen der Werkzeuge: Schlüssel, Listen, Platzhalter), `motion-check.mjs` (Einblendungen nach dem Scrollen vollständig), `reveal-check.mjs` (Einblenden mit `data-reveal` auf beliebigen Seiten), `menu.mjs` (Mega-Menüs), `intro.mjs` (Intro der Startseite), `netmap-view.mjs` (Kartenleiste und Blatt „Ansicht“ auf dem Telefon), `appbar-keyboard.mjs` (App-Leiste und Bildschirmtastatur), `finder-list.mjs` (Listenansicht des Produktfinders), `doc-langs.mjs` und `doc-pages.mjs` (Dokumente je Sprachfassung). Die Parser-Tests (`node tools/test/spec.test.mjs`) decken alle fünf Sprachen ab, auch Wortgrenzen neben Akzenten (z. B. „áttétel“). Aufruf jeweils mit laufendem lokalen Server (`cd dist && python3 -m http.server 8080`). `npm run check:i18n` prüft alle Sprachdateien.
+**Qualitätssicherung.** In `site/tools/qa/` liegen automatische Prüfungen mit Playwright: `crawl.mjs` (alle Seiten: Konsolenfehler, fehlende Ressourcen, Überläufe, interne Links), `shot.mjs` (Bildschirmfotos), `map.mjs` (Karten), `configurator.mjs` (Konfigurator), `flow.mjs` (Finder, Vergleich, Anfrage, Suche, Sprachwechsel), `spa.mjs` (Vorschau), `a11y.mjs` (WCAG 2.1 AA mit axe-core), `perf.mjs` (Ladezeit und Layoutstabilität bei gedrosseltem Mobilfunk), `img-audit.mjs` (Bildschärfe: benötigte gegen vorhandene Pixel je Bild, Seiten ohne Bild), `oldlinks.mjs` (keine Links auf die Altseiten), `pv-preview.mjs` (alle Schemazeichnungen), `tools-probe.mjs` (Werkzeuge in jeder Sprache: `node tools/qa/tools-probe.mjs /tmp/w 390 hu`), `files-probe.mjs`, `mappe-probe.mjs`, `smart-probe.mjs` (Werkzeuge), `wide.mjs` und `minwidth.mjs` (Seitenbreite auf dem Telefon: was verbreitert die Seite, welche Wörter erzwingen die Mindestbreite) und `i18n-check.mjs` (Übersetzungen der Werkzeuge: Schlüssel, Listen, Platzhalter), `motion-check.mjs` (Einblendungen nach dem Scrollen vollständig), `reveal-check.mjs` (Einblenden mit `data-reveal` auf beliebigen Seiten), `menu.mjs` (Mega-Menüs), `intro.mjs` (Intro der Startseite), `perf-hero.mjs` (Rechenlast der Startbühne), `netmap-view.mjs` (Kartenleiste und Blatt „Ansicht“ auf dem Telefon), `appbar-keyboard.mjs` (App-Leiste und Bildschirmtastatur), `finder-list.mjs` (Listenansicht des Produktfinders), `doc-langs.mjs` und `doc-pages.mjs` (Dokumente je Sprachfassung). Die Parser-Tests (`node tools/test/spec.test.mjs`) decken alle fünf Sprachen ab, auch Wortgrenzen neben Akzenten (z. B. „áttétel“). Aufruf jeweils mit laufendem lokalen Server (`cd dist && python3 -m http.server 8080`). `npm run check:i18n` prüft alle Sprachdateien.
 
 ## 7. Offene Punkte für RITZ
 
